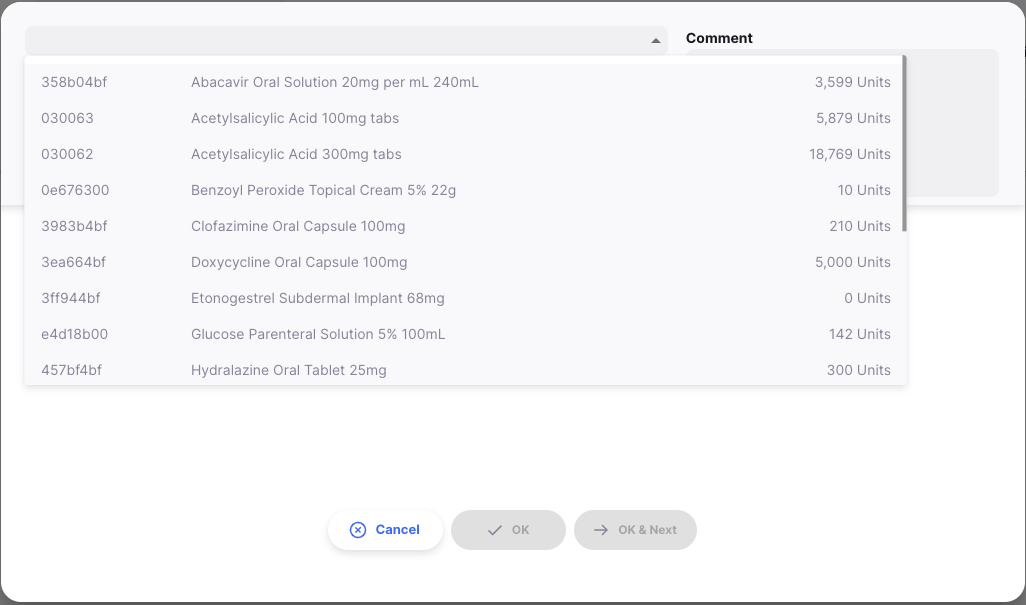
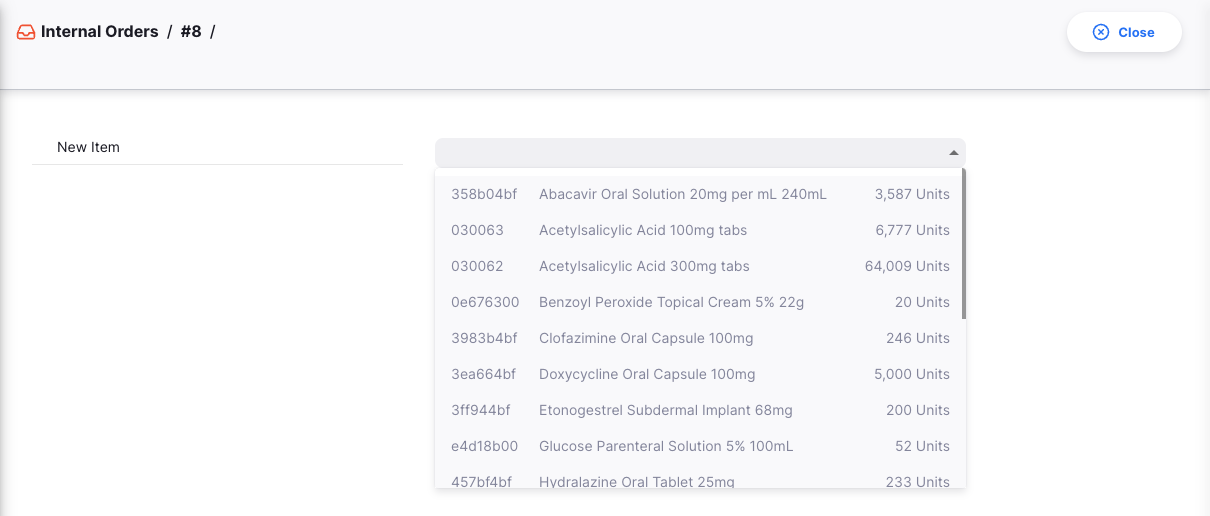
from 40ea7efd5dce74883c251f137200626f836dd150

diff --git a/content/docs/programs/requisitions.md b/content/docs/programs/requisitions.md
@@ -61,7 +61,64 @@ There are several areas where you'll see additional information when using a pro
 
 1. The `Add item` and `Add from master list` buttons are disabled. Items in a program based Internal Order are configured by the program.
 2. A message explaining that you also cannot edit the target and reorder threshold MOS values on a program based Internal Order. These values are configured by the program.
-3. Additional information telling you which program, order type and period this Internal Order is for. This detail panel can be opened by clicking the `More` button in the top right of the page.
+3. Additional information telling you which program, order type and period this
+   Internal Order is for. This detail panel can be opened by clicking the `More`
+   button in the top right of the page.
+
+#### Extra Requisition Fields
+
+In Internal Orders, it is possible to display additional columns of data for
+reporting and forcing purposes. These columns are calculated and are not
+editable. To enable these columns you need to configure store preferences to
+enable these extra columns as described in the [mSupply Desktop
+documentation](https://docs.msupply.org.nz/other_stuff:virtual_stores#preferences_tab).
+
+![Show extra fields on requisitions preference](/docs/programs/images/show_extra_fields_on_requisitions.png)
+
+Enabling the preference will show the extra columns on the requisition list page:
+
+<!-- TODO: Calculations (currently aren't calculated)  -->
+
+| Column                    | Description                                                                                                  |
+| :------------------------ | :----------------------------------------------------------------------------------------------------------- |
+| **Initial stock on hand** | The customer's stock on hand at the start of the program period                                              |
+| **Incoming**              | The customer's incoming stock in units for this item                                                         |
+| **Outgoing**              | The customer's outgoing stock in units for this item                                                         |
+| **Losses**                | Inventory Adjustment                                                                                         |
+| **Additions**             | Inventory Adjustment                                                                                         |
+| **Available**             | Initial stock on hand + incoming stock +/- inventory adjustment - outgoing stock                             |
+| **Short Expiry**          | Sum of available stock for the item which has an expiry date after the program end date                      |
+| **Days out of stock**     | (Target MOS \* AMC) - available stock                                                                        |
+| **AMC**                   | The customer's average monthly consumption for this item                                                     |
+| **MOS**                   | Months of stock for the item                                                                                 |
+| **Reason**                | A reason will be provided if their is a difference between the suggested quantity and the requested quantity |
+
+The line edit page will also contain the extra columns.
+
+![Program Requisition Line
+Edit](/docs/programs/images/internal_order_extra_fields_edit.png)
+
+If your store has the store preference `Use consumption &
+stock from customers for internal orders` enabled
+
+![Use consumption & stock from customers for internal
+orders](/docs/programs/images/consumption_data_pref.png)
+
+Then you will see an extra table underneath the input fields which shows the
+customer's data based on their program requisitions for that period.
+
+![](/docs/programs/images/internal_order_item_info.png)
+
+The table has 6 columns:
+
+| Column          | Description                                                                                                                                  |
+| :-------------- | -------------------------------------------------------------------------------------------------------------------------------------------- |
+| **Name**        | The customer's name or the current store name                                                                                                |
+| **AMC**         | The customer's average monthly consumption. For the currently logged in store, this will be the sum of all customer AMC                      |
+| **Unit Qty**    | Stock on hand at the end of the program period                                                                                               |
+| **Adjustments** | Calculated using the following calculation for the item. Delivered inbound shipments - picked outbound shipments +- any inventory adjuments. |
+| **Outgoing**    | Quantity of item in picked outbound shipments                                                                                                |
+| **Date range**  | The end date of the program period                                                                                                           |
 
 ### Requisitions
 
@@ -105,17 +162,11 @@ items manually to the Requisition.
 
 #### Extra Requisition Fields
 
-In manual requisitions it is possible to collect many additional columns of data for reporting and forecasting purposes. To enable these columns you need to configure store preferences to enable these extra columns as described in the [mSupply Desktop documentation](https://docs.msupply.org.nz/other_stuff:virtual_stores#preferences_tab).
+In manual requisitions it is possible to collect many additional columns of data
+for reporting and forecasting purposes. You will need the `Show extra fields on
+requisitions` store preference. See above for details.
 
-For quick reference this is the preference your logged-in store requires:
-![Show extra fields on requisitions preference](/docs/programs/images/show_extra_fields_on_requisitions.png)
-
-This is how the extra columns look within a requisition:
-
-![Program Requisition Detail
-View](/docs/programs/images/program_requisition_detail_view.gif)
-
-The line edit page will also contain the extra columns as well:
+Enabling the preference will show the extra columns on the requisition list page:
 
 | Column                    | Description                                                                                                  |
 | :------------------------ | :----------------------------------------------------------------------------------------------------------- |
@@ -130,6 +181,8 @@ The line edit page will also contain the extra columns as well:
 | **AMC**                   | The customer's average monthly consumption for this item                                                     |
 | **MOS**                   | Months of stock for the item                                                                                 |
 | **Reason**                | A reason will be provided if their is a difference between the suggested quantity and the requested quantity |
+
+The line edit page will also contain the extra columns as well.
 
 ![Program Requisition Line
 Edit](/docs/programs/images/program_requisition_line_edit.png)

diff --git a/content/docs/catalogue/items.md b/content/docs/catalogue/items.md
@@ -98,6 +98,33 @@ There are two tabs in the bottom part of the screen:
 This tab lists the Master Lists associated with this item.
 ![Item detail headers](/docs/catalogue/images/cat_itemmasterlists.png)
 
+### Ledger
+
+The item ledger tab shows a history of transactions in this store for the item.
+
+![](/docs/catalogue/images/item_ledger.png)
+
+The ledger is divided into 16 columns:
+
+| Column               | Description                                                      |
+| :------------------- | :--------------------------------------------------------------- |
+| **Type**             | The type of the transaction                                      |
+| **Date**             | The date of the transaction was confirmed                        |
+| **Time**             | The time of the transaction was confirmed                        |
+| **Invoice Number**   | The invoice (shipment) number of the transaction                 |
+| **Name**             | The name of the customer or supplier                             |
+| **Status**           | The status of the transaction                                    |
+| **Expiry**           | The expiry date of the stock line                                |
+| **Batch**            | The batch number of the stock line                               |
+| **Pack Size**        | The pack size                                                    |
+| **Number of packs**  | The number of packs in the transaction                           |
+| **Unit Qty**         | The quantity that was assigned to the transaction in units       |
+| **Balance**          | The balance of the stock line                                    |
+| **Pack cost price**  | The cost price of the pack                                       |
+| **Pack sell price**  | The sell price of the pack                                       |
+| **Total before tax** | The total cost of the transaction before tax (in local currency) |
+| **Reason**           | The reason for the adjustment (if required)                      |
+
 ## Item Variants
 
 On the [Open mSupply Central Server](/docs/getting_started/central), a third tab, Item Variants, is available. This tab allows you to configure variations of the item, such as different manufacturers or packaging sizes.

diff --git a/content/docs/replenishment/internal_orders.md b/content/docs/replenishment/internal_orders.md
@@ -82,24 +82,29 @@ This can be done before or after adding items to your order.
 
 ### Adding a single item
 
-Tap on `Add Item` to add a single item to your order. A new window opens:
+Tap on `Add Item` to add a single item to your order. You will be redirected to
+a new page.
 
 ![Internal Order: add item](/docs/replenishment/images/intord_additem2.png)
 
 First select the item you want to add to your order. You can also type some or all of an item name (or code) to look for a specific item.
 
-Once item is selected, you should see the following information on the window:
+Once item is selected, you should see the following information on the page:
 
-- **Item Code** and **Item Name**
-- **Units/Packs toggle**: this allows you to switch between ordering in units or packs
-- **Unit**: the default unit used for this item (_eg. Tablet, Vial_)
-- **AMC**: Average Monthly Consumption. How much stock your store uses each month on average (based on a configurable number of months, default is set to 3 months)
+- **Item Name**
 - **SOH**: Stock on Hand. How much stock the store currently has available
+- **AMC**: Average Monthly Consumption. How much stock your store uses each month on average (based on a configurable number of months, default is set to 3 months)
+- **Units/Packs toggle**: this allows you to switch between ordering in units or packs
+- **Default pack size**: the default pack size of the item
+- **Requested quantity**: the quantity of units that you request from your supplier
 - **Default pack size**: the default pack size of the item
 - **Suggested Quantity**: how much stock mSupply suggests that your order to reach your stock target quantity
-- **Requested quantity**: the quantity of units that you request from your supplier
+- **Comments**: any comments you want to add to the order
 
-You should also see the following charts:
+You should also see the following charts if you click the bar graph icon next to
+requested quantity:
+
+![](/docs/replenishment/images/io_bar_graph_icon.png)
 
 - **Target Quantity**: In this chart, you will see the following information:
   - The _Target Quantity_ for the item. This is calculated as: Target MOS x AMC.

diff --git a/content/docs/programs/program_indicators.md b/content/docs/programs/program_indicators.md
@@ -18,7 +18,39 @@ The term 'Program Indicators' refers to a set of configurable survey questions w
 
 ## Enabling Program Indicators
 
-Program Indicators are configured on the mSupply central server, following the documentation [here](https://docs.msupply.org.nz/items:programs#adding_indicators_to_a_program).
+Program Indicators are configured on the mSupply central server. See
+documentation
+[here](https://docs.msupply.org.nz/items:programs#adding_indicators_to_a_program).
+
+## Internal Orders
+
+1. Create a [program Internal
+   Order](/docs/programs/requisitions/#creating-a-program-internal-order).
+2. Click on the Indicators tab
+
+![Indicators tab](/docs/programs/images/internal_order_indicator_tab.png)
+
+<div class='note'>
+HIV is only available on Programs where "HIV" has been enabled.
+</div>
+
+3. Click on one of the Program Indicator buttons (if more than one is available)
+
+![Indicators edit](/docs/programs/images/internal_order_indicator_edit.png)
+
+From here you can enter in the data, as configured for each indicator of this
+program.
+
+If your store is a supplying store and the store preference `Use consumption &
+stock from customers for internal orders` is enabled
+
+![Use consumption & stock from customers for internal orders](/docs/programs/images/consumption_data_pref.png)
+
+then you will also see a table showing summarised indicator data from your customer stores for the period.
+![Indicator info](/docs/programs/images/indicator_info_table.png)
+
+The previous and next buttons at the bottom allows you to navigate between the
+indicators.
 
 ## Manual Customer Requisitions
 
@@ -31,10 +63,6 @@ The process of entering program indicators is as follows:
 2. Click on the Indicators tab
 
 ![Indicators tab](/docs/programs/images/indicators.png)
-
-<div class='note'>
-HIV is only available on Programs where "HIV" has been enabled.
-</div>
 
 3. Click on one of the Program Indicator buttons
 

diff --git a/content/docs/distribution/requisitions.md b/content/docs/distribution/requisitions.md
@@ -290,7 +290,7 @@ You cannot change the customer name after the requisition has been created. If y
 
 Tap on the `Add Item` button (top right corner).
 
-A new `Add Item` window will open. You can look up an item by:
+You will be redirected to the edit page. You can look up an item by:
 
 - Reading through the list of available items
 - or by typing some or all of the item name
@@ -298,10 +298,7 @@ A new `Add Item` window will open. You can look up an item by:
 
 Once your item is highlighted, tap on the name or press `Enter`.
 
-![Add Item](/docs/distribution/images/requisition_add_item.gif)
-
-Once the item has been selected, you will be redirected to the line edit page.
-Here you can enter the customer's stock on hand, average monthly consumption and
+Once an item has been selected, you will be redirected to the item edit page. Here you can enter the customer's stock on hand, average monthly consumption and
 requested quantity. You can also enter how much you are going to supply to the
 customer and any comments. The values are saved automatically.
 
